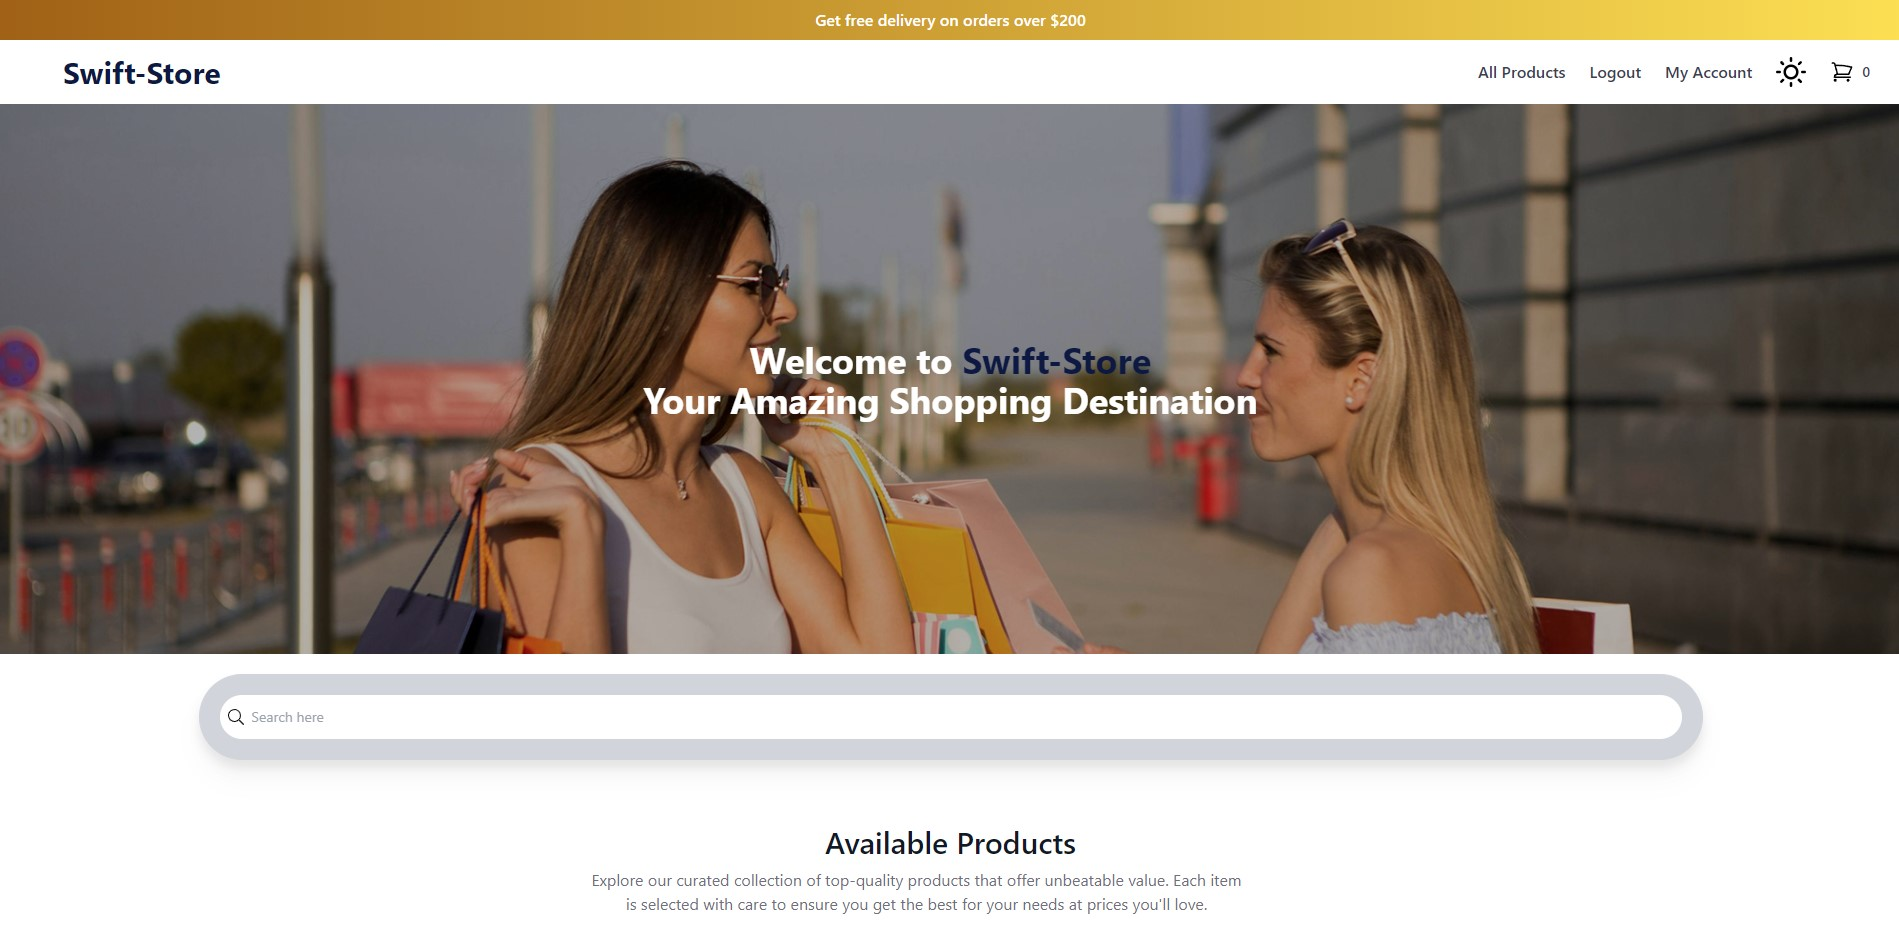
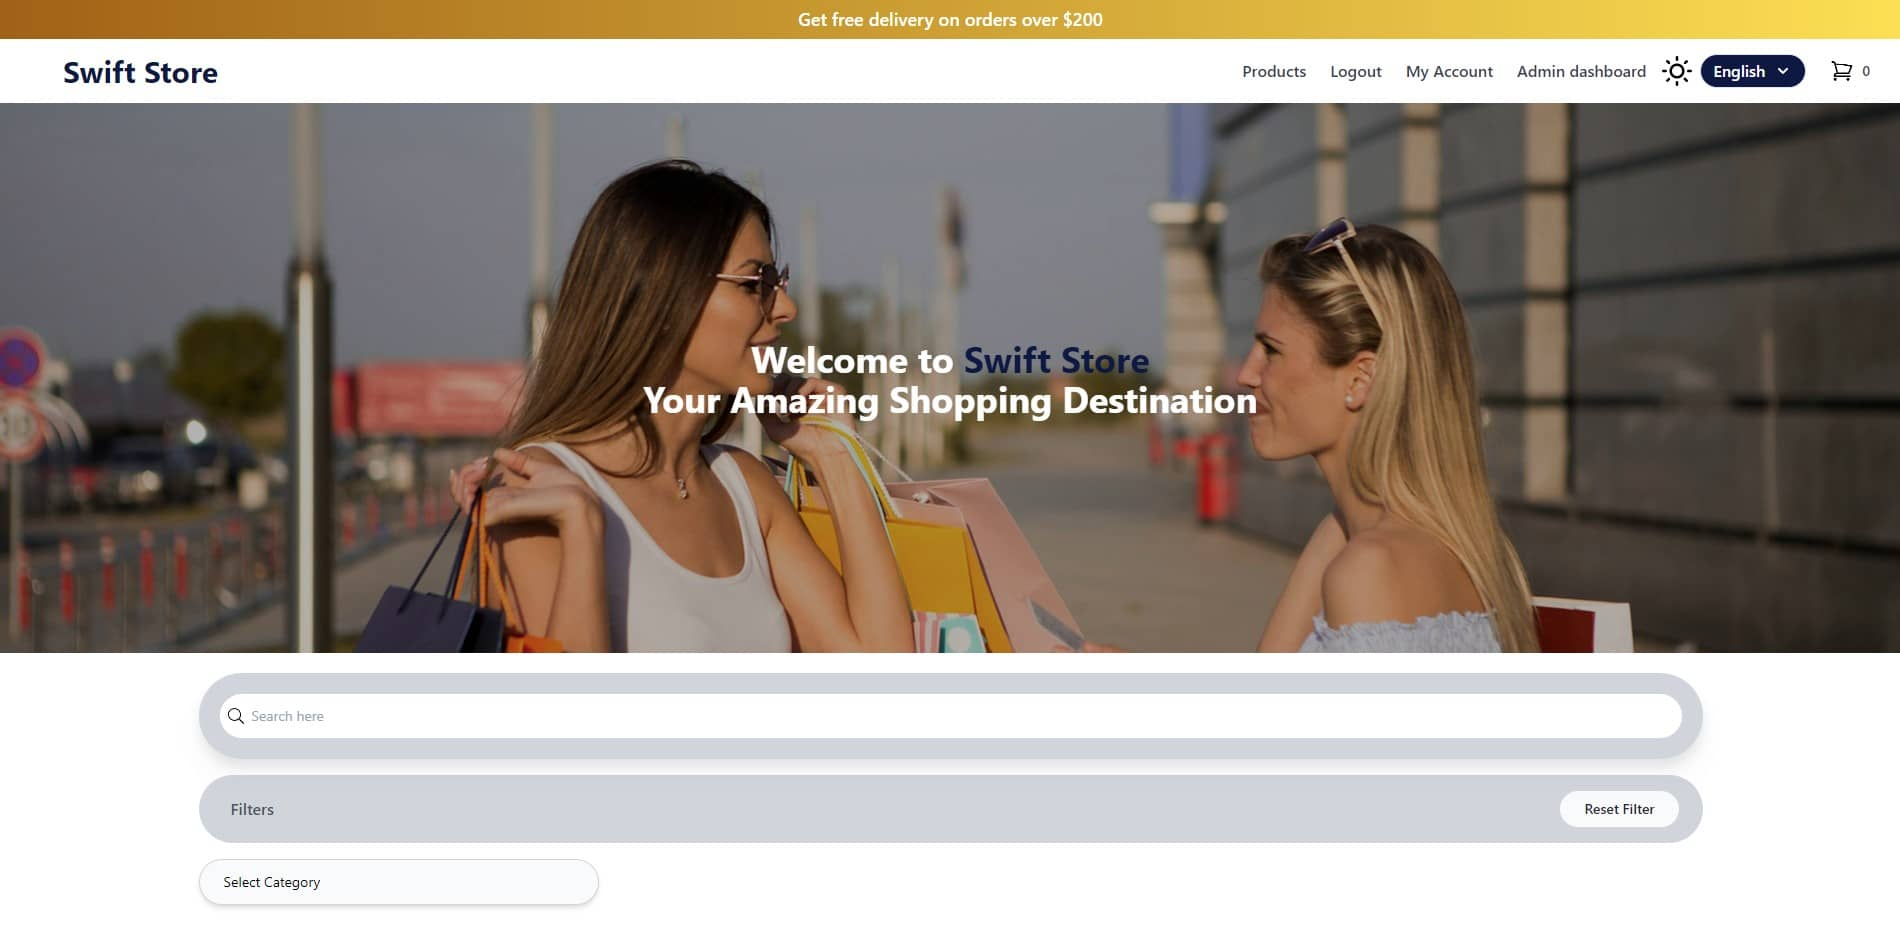
image and languageswitcher

diff --git a/src/components/languageswitcher/Languageswitcher.jsx b/src/components/languageswitcher/Languageswitcher.jsx
@@ -1,0 +1,45 @@
+import { useTranslation } from 'react-i18next';
+import { useState } from 'react';
+
+const LanguageSwitcher = () => {
+const { i18n } = useTranslation();
+const [hover, setHover] = useState(false);
+
+const handleLanguageChange = (lng) => {
+    i18n.changeLanguage(lng);
+};
+
+const currentLanguage = i18n.language || i18n.options.fallbackLng[0];
+
+return (
+    <div 
+    className='relative lg:ms-3 border bg-main text-white font-semibold py-1 px-3 rounded-full'
+    onMouseEnter={() => setHover(true)} 
+    onMouseLeave={() => setHover(false)}
+    >
+    <button className='focus:outline-none flex items-center'>
+        <span>{currentLanguage === 'ar' ? 'العربية' : 'English'}</span>
+        <svg className='w-4 h-4 ms-2' fill='none' stroke='currentColor' viewBox='0 0 24 24' xmlns='http://www.w3.org/2000/svg'>
+        <path strokeLinecap='round' strokeLinejoin='round' strokeWidth='2' d='M19 9l-7 7-7-7'></path>
+        </svg>
+    </button>
+
+    {hover && (
+        <ul className='absolute z-20 bg-white text-black rounded-lg mt-1 p-2 shadow-lg w-24'>
+        {currentLanguage !== 'ar' && (
+        <li className='hover:bg-gray-100 transition-colors rounded'>
+            <button className='w-full text-end py-1 px-2' onClick={() => handleLanguageChange('ar')}>العربية</button>
+        </li>
+        )}
+        {currentLanguage !== 'en' && (
+        <li className='hover:bg-gray-100 transition-colors rounded'>
+            <button className='w-full text-start py-1 px-2' onClick={() => handleLanguageChange('en')}>English</button>
+        </li>
+        )}
+        </ul>
+    )}
+    </div>
+);
+};
+
+export default LanguageSwitcher; 

diff --git a/src/components/filter/Filter.jsx b/src/components/filter/Filter.jsx
@@ -49,7 +49,7 @@ function Filter({t}) {
                 </p>
                 <button
                     className="px-6 mr-2 py-2 bg-gray-50 hover:bg-gray-200 text-gray-800 text-sm font-medium rounded-full"
-                    style={{ color: mode === 'dark' ? 'white' : '' }}
+                    style={{ color: mode === 'dark' ? 'white' : '', backgroundColor: mode === 'dark' ? 'gray' : '' }}
                     onClick={() => {
                         setSearchkey('');
                         setFilterType('');

diff --git a/src/components/navbar/Navbar.jsx b/src/components/navbar/Navbar.jsx
@@ -9,7 +9,7 @@ import { RxCross2 } from 'react-icons/rx'
 import { useSelector } from "react-redux"
 import { IoIosArrowUp} from 'react-icons/io'
 import { motion, AnimatePresence  } from 'framer-motion';
-import LanguageSwitcher from '../../locales/languageswitcher/LanguageSwitcher'
+import LanguageSwitcher from '../languageswitcher/Languageswitcher'
 import { withTranslation  } from 'react-i18next';
 
 const Navbar = ({ t }) => {
